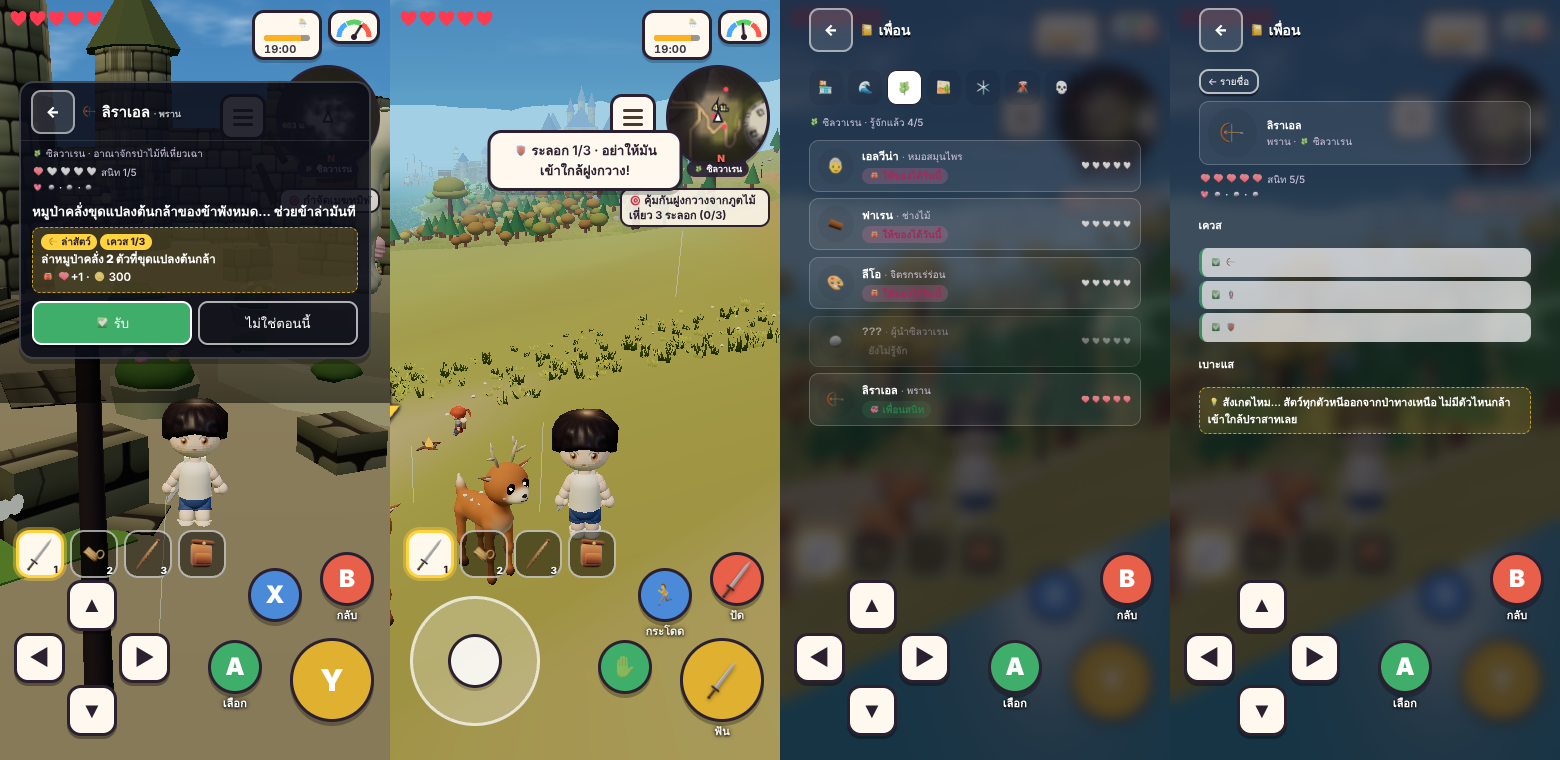
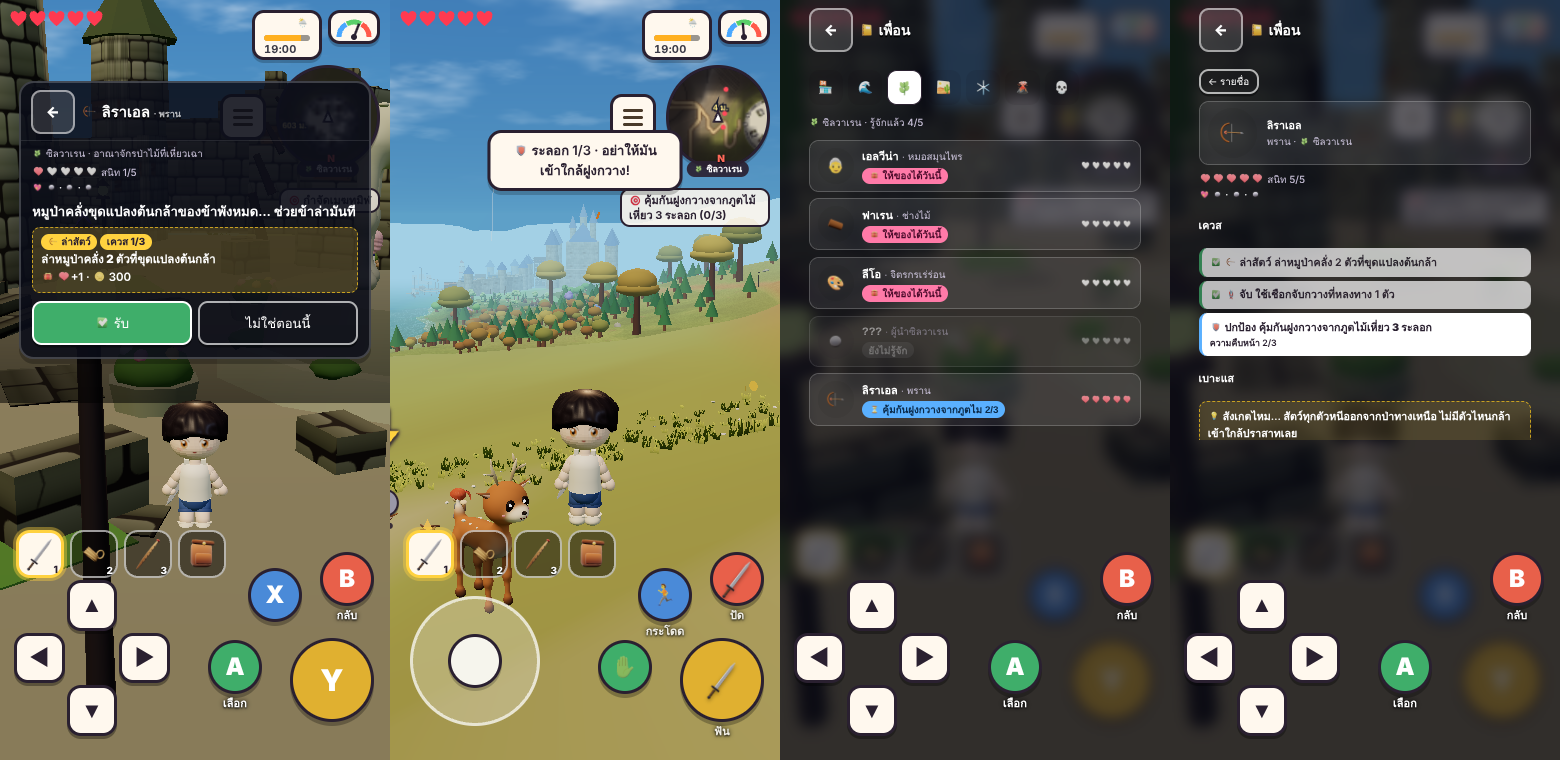
wip(newgame): v5.18 friends book contrast, opens on harbour outside kingdoms, refugees keep inn clue; test fixes
Claude-Session: https://claude.ai/code/session_01GPWeNez232vT9ersFNk7wt

diff --git a/newgame/src/main.js b/newgame/src/main.js
@@ -4726,7 +4726,7 @@ function wanderOffer(w) { const day = S.dayN || 0, X = D.WANDER_SHOP, h = idHash
 function wanderShop(w) { const o = wanderOffer(w), day = S.dayN || 0, got = (S.wbuy || {})[w.id] === day; if (!o) return; sheet(`🛍 ของจาก${w.name}`, (b, redraw, close) => { b.innerHTML = `<div class="card" style="text-align:center"><div style="font-size:38px">${o.ic}</div><b>${o.name}</b><p class="mut">${got ? 'วันนี้ซื้อไปแล้ว · พรุ่งนี้ค่อยมาดูของใหม่' : 'ของพิเศษวันละชิ้น · พรุ่งนี้จะเปลี่ยนเป็นของอื่น'}</p></div><button class="btn wide ${got || S.coin < o.price ? '' : 'go'}" id="wB" ${got ? 'disabled' : ''}>${got ? '✅ ซื้อแล้ว' : `🪙 ${fmt(o.price)} · ซื้อ`}</button>`;
   const x = b.querySelector('#wB'); if (x && !got) x.onclick = () => { if (S.coin < o.price) { hint('🪙 เงินไม่พอ', 1000); return } S.coin -= o.price; (S.wbuy = S.wbuy || {})[w.id] = day; const msg = o.give(); sfx('coin'); save(); hud(); toast(`🛍 ได้ ${msg}`, 2200); close() } }) }
 function talkNpc(key, heard) { const N = KNPC[key]; if (!N) return; if (!heard && !isNight() && !outlaw()) { const kind = Object.keys(D.ANIMAL_HINT).find(a => D.ANIMAL_HINT[a].npc === N.n.id && !animalCaught(a)), H = kind && D.ANIMAL_HINT[kind], ws = kind && animalSpot(kind); if (ws) { const o = kind === 'whale' ? HB : N.A.root.position, dx = ws.x - o.x, dz = ws.z - o.z, dir = Math.abs(dx) > Math.abs(dz) ? (dx > 0 ? 'ตะวันออก' : 'ตะวันตก') : (dz > 0 ? 'ใต้' : 'เหนือ'), m = Math.round(Math.hypot(dx, dz) / 10) * 10;
-    talk([[`${N.n.icon} ${N.n.name}`, H.say.replace('{dir}', dir).replace('{m}', m)], [`${N.n.icon} ${N.n.name}`, H.when + ' · 📍 ข้าวาดไว้บนแผนที่ให้แล้ว']], () => talkNpc(key, 1)); return } }   /* v5.10–11 🐾 the locals know where the animals live (until you catch one) */ if (outlaw()) { sfx('knock'); toast('🚪 ชาวบ้านปิดประตูเงียบ… “คนร้ายลักพาตัวพระราชา! อย่าเข้ามานะ!”', 2400); return } if (PL) PL.waveT = performance.now() + 1300;   /* v3.49 👋 a wave hello */ if (isNight()) { sfx('knock'); toast(`💤 ${N.n.icon} ${N.n.name} หลับอยู่ในบ้าน<br><small>กลับมาคุยตอนเช้านะ (${Math.floor(D.DAY.dawn / 60)}:00 น.)</small>`, 2200); return }   /* v3.42 */ if (carryN()) { const st0 = npcState(N.k, N.n); if (st0 === '…' || st0 === '❓') carryBack(true); else { giftNpc(N); return } }   /* v4.90 🎁 holding something = a gift · or, with a quest of theirs on, it goes back to the bag and counts for the quest */   /* v4.90 🎁 holding something = a gift */ if (N.n.story && storyTalk(N)) return; if (refOf(N.k, N.n)) { refTalk(N); return } const { k, n } = N, K = KINGDOMS[k], ids = n.lead && !(S.restored || {})[k] ? KQ[k].restore : (n.q || []);   /* v4.24 the leader has quests of her own once the kingdom is restored */ let say = null;
+    talk([[`${N.n.icon} ${N.n.name}`, H.say.replace('{dir}', dir).replace('{m}', m)], [`${N.n.icon} ${N.n.name}`, H.when + ' · 📍 ข้าวาดไว้บนแผนที่ให้แล้ว']], () => talkNpc(key, 1)); return } }   /* v5.10–11 🐾 the locals know where the animals live (until you catch one) */ if (outlaw()) { sfx('knock'); toast('🚪 ชาวบ้านปิดประตูเงียบ… “คนร้ายลักพาตัวพระราชา! อย่าเข้ามานะ!”', 2400); return } if (PL) PL.waveT = performance.now() + 1300;   /* v3.49 👋 a wave hello */ if (isNight()) { sfx('knock'); toast(`💤 ${N.n.icon} ${N.n.name} หลับอยู่ในบ้าน<br><small>กลับมาคุยตอนเช้านะ (${Math.floor(D.DAY.dawn / 60)}:00 น.)</small>`, 2200); return }   /* v3.42 */ if (carryN()) { const st0 = npcState(N.k, N.n); if (st0 === '…' || st0 === '❓') carryBack(true); else { giftNpc(N); return } }   /* v4.90 🎁 holding something = a gift · or, with a quest of theirs on, it goes back to the bag and counts for the quest */   /* v4.90 🎁 holding something = a gift */ if (N.n.story) { const s9 = storyNow(N.k, N.n), busy = (s9.qs && s9.qs.st === 'on') || (s9.Q && s9.h >= s9.need) || s9.clue || s9.ref; if ((busy || !refOf(N.k, N.n)) && storyTalk(N)) return }   /* a refugee with nothing new to say keeps the inn's castle clue */ if (refOf(N.k, N.n)) { refTalk(N); return } const { k, n } = N, K = KINGDOMS[k], ids = n.lead && !(S.restored || {})[k] ? KQ[k].restore : (n.q || []);   /* v4.24 the leader has quests of her own once the kingdom is restored */ let say = null;
   sheet(`${n.icon} ${n.name}${n.job ? ` <small class="njob">· ${n.job}</small>` : ''}`, (b, redraw, close) => { const T = KQS(), qg = qGate(k, n, ids), id = qg.id, busy = qActive(), Q = id && KQUEST[id], st = id && T[id], p = id && qProg(id), done = n.lead && (S.restored || {})[k] && !id;
     let line, ch = [['bye', '👋 ลาก่อน']];
     if (say) { line = say; say = null }
@@ -5763,7 +5763,7 @@ function frNext(k, n) { if (n.lead && D.MINIB[k] && raided(k)) return ['p-lock',
   if (n.story) { const s = storyNow(k, n); if (s.qs && s.qs.st === 'on') { const p = qProg(s.id); return p.ok ? ['p-new', `✅ ส่งเควสได้แล้ว`] : ['p-act', `⏳ ${s.Q.text.slice(0, 22)} ${p.cur}`] } if (s.Q && s.h >= s.need) return ['p-new', '📜 มีเควสใหม่']; if (s.clue || s.ref) return ['p-new', '💬 มีเรื่องจะเล่า'] }
   const F = FRS(k, n); if (F.d !== (S.dayN || 0) && frHearts(F.p) < 5) return ['p-gift', '🎁 ให้ของได้วันนี้']; return ['p-ok', frHearts(F.p) >= 5 ? '💞 เพื่อนสนิท' : '·'] }
 function openFriends() { closeSheets(); const tabs = [['harbour', '🏪', 'ร้านเมืองท่า'], ...Object.keys(KQ).filter(k => KINGDOMS[k]).map(k => [k, KINGDOMS[k].name.split(' ')[0], KINGDOMS[k].name])];
-  { const here = kingdomAt(me().x, me().z); frTab = here && here.w > .5 && KQ[here.k] && KINGDOMS[here.k] ? here.k : (tabs.find(([k]) => frPeople(k).some(({ k: kk, n }) => frNext(kk, n)[0] === 'p-new')) || tabs[0])[0] }   /* opens on the kingdom you stand in · else one with news */
+  { const here = kingdomAt(me().x, me().z); frTab = here && here.w > .5 && KQ[here.k] && KINGDOMS[here.k] ? here.k : 'harbour' }   /* opens on the kingdom you stand in · else the harbour (tabs show a dot where there is news) */
   sheet('📖 เพื่อน', (b, redraw) => {
     if (frWho) { const { k, n } = frWho, F = FRS(k, n), h = frHearts(F.p), T = KQS(), pos = k === 'harbour' ? null : npcHome(k, n, 0);
       const qs = (n.sq || []).filter((id, i) => (T[id] || {}).st || h >= STORY_HT[i]).map(id => { const Q = KQUEST[id], st = T[id] || {}, p = st.st === 'on' ? qProg(id) : null; return st.st === 'done' ? `<div class="fq done">✅ ${Q.kind2 || '📜'} ${Q.text}</div>` : st.st === 'on' ? `<div class="fq">${Q.kind2 || '📜'} <b>${Q.text}</b><br><small>${p.ok ? '✅ กลับไปส่งได้แล้ว' : 'ความคืบหน้า ' + p.cur}</small></div>` : `<div class="fq new">${Q.kind2 || '📜'} <b>${Q.text}</b><br><small>คุยกับ${n.name}เพื่อรับเควส</small></div>` }).join('');

diff --git a/newgame/tools/test/friend.js b/newgame/tools/test/friend.js
@@ -27,7 +27,7 @@ const ROOT = path.resolve(__dirname, '../../..'), PORT = 8939, OUT = process.arg
     const jq = await E(() => { const N = window.__ng, S = N.S; S.kq = S.kq || {}; const sv = N.KQ.sylvaren.npcs.find(n => n.job === 'หมอสมุนไพร'); for (const id of sv.q) if (!N.KQUEST[id].job) S.kq[id] = { st: 'done' }; const r0 = (S.restored || {}).sylvaren; const a = N.qGate('sylvaren', sv, sv.q); (S.restored = S.restored || {}).sylvaren = 1; const b2 = N.qGate('sylvaren', sv, sv.q); if (!r0) delete S.restored.sylvaren; return { a, b: b2 } }); log('job quest', JSON.stringify(jq)); if (!jq.a.job || !jq.b.id || !/^job_/.test(jq.b.id)) bad.push('job quests should open after the kingdom is free');
     /* v4.91 shopkeepers + Martha take gifts */
     const sg = await E(() => { const N = window.__ng, S = N.S; S.dayN = 20; const bi = N.D.SHOPS.findIndex(s => s.k === 'market'); S.shops = S.shops || {}; S.shops.market = 1; N.hinEnter({ shop: bi, k: 'shop_market', x: N.TW.shops[bi].x, z: N.TW.shops[bi].z }); N.carryTake('apple', 'g'); const H = N.HIN.shop; N.giftShop('market', H.who, H.owner[0], H.owner[1]); N.hinExit(); const P = N.INNP; N.placeMe(P.dx, P.dz + .5); N.useThing({ kind: 'inn' }); N.carryTake('carrot', 'g'); const ctx = N.innCtx({ x: N.HIN.g.position.x + N.HINC.keeper[0], z: N.HIN.g.position.z + N.HINC.keeper[1] + 1.3 }); ctx.go(); N.hinExit(); return { market: (S.fr['harbour:shop_market'] || {}).p, marthaCtx: ctx.k, martha: (S.fr['harbour:shop_inn'] || {}).p } }); log('shop gifts', JSON.stringify(sg)); if (!(sg.market > 0) || sg.marthaCtx !== 'gift' || sg.martha == null) bad.push('shopkeepers / Martha cannot take gifts');
-    await wait(800); await clr(); await E(() => window.__ng.openFriends()); await wait(600); const fp2 = await E(() => [...document.querySelectorAll('.ov')].map(o => o.innerText).join(' ')); if (!/เมืองท่า/.test(fp2)) bad.push('harbour folk not on the friends page'); await pg.screenshot({ path: OUT + '/f4-friends2.png' }); await clr();
+    await wait(800); await clr(); await E(() => { window.__ng.openFriends(); const t = document.querySelector('[data-ft="harbour"]'); t && t.click() }); await wait(600); const fp2 = await E(() => [...document.querySelectorAll('.ov')].map(o => o.innerText).join(' ')); if (!/เมืองท่า/.test(fp2)) bad.push('harbour folk not on the friends page'); await pg.screenshot({ path: OUT + '/f4-friends2.png' }); await clr();
     /* v4.93 bar-goers take gifts at night */
     const bg = await E(() => { const N = window.__ng, S = N.S; S.dayN = 30; S.time = 23 * 60; const bi = N.D.SHOPS.findIndex(s => s.k === 'bar'); S.shops = S.shops || {}; S.shops.bar = 1; N.hinEnter({ shop: bi, k: 'shop_bar', x: N.TW.shops[bi].x, z: N.TW.shops[bi].z }); const t = N.HIN.pat.find(t => (((S.fr || {})[t.r.k + ':' + t.r.n.id]) || {}).p !== 15); if (!t) return { none: 1 }; S.ingr.apple = 5; N.carryTake('apple', 'g'); const k = t.r.k + ':' + t.r.n.id, p0 = ((S.fr || {})[k] || {}).p || 0; N.HIN.pat = [t]; const o = N.HIN.g.position; const c = N.CTX; N.placeMe(o.x + t.x, o.z + t.z + .6); return { k, p0, key: k } }); await wait(1200);
     const bg2 = await E(k => { const N = window.__ng, c = N.CTX; const kk = c && c.k; if (c && c.go) c.go(); N.hinExit(); return { ctx: kk, p: ((N.S.fr || {})[k] || {}).p } }, bg.key); log('bar gift', JSON.stringify(bg), JSON.stringify(bg2)); if (bg.none || bg2.ctx !== 'gift' || !(bg2.p > bg.p0)) bad.push('bar-goers cannot take gifts'); await clr(); await E(() => { window.__ng.S.time = 600 });

diff --git a/newgame/tools/test/layout4.js b/newgame/tools/test/layout4.js
@@ -17,7 +17,7 @@ const ROOT = path.resolve(__dirname, '../../..'), PORT = 8915, OUT = process.arg
     await press('#qbar [data-qs="0"]', 120); let s2 = await st(); log('tap slot 1', JSON.stringify(s2)); if (!s2.cur.startsWith('w:')) errs.push('slot 1 = back to the sword');
     await press('#bY', 2600); let s3 = await st(); log('hold big', JSON.stringify(s3)); await pg.screenshot({ path: OUT + '/2-wheel.png' }); if (!/qwheel/.test(s3.ov)) errs.push('hold the big button = the item wheel');
     await E(() => { const b = [...document.querySelectorAll('[data-gw]')].find(x => x.dataset.gw === 'y:rope'); b && b.click() }); await wait(400); let s4 = await st(); log('wheel → rope', JSON.stringify(s4)); if (s4.cur !== 'y:rope' || s4.ov) errs.push('the wheel picks the rope and closes');
-    await press('#qbar [data-qs="1"]', 2600); let s5 = await st(); if (!/qwheel/.test(s5.ov)) errs.push('hold a slot = choose for it'); await E(() => { const b = [...document.querySelectorAll('[data-gw]')].find(x => x.dataset.gw === 'y:flute'); b && b.click() }); await wait(400); let s6 = await st(); log('slot 2 = flute', JSON.stringify(s6)); if (s6.slots[1] !== 'y:flute') errs.push('slot 2 now holds the flute');
+    await wait(900); await press('#qbar [data-qs="1"]', 2600); let s5 = await st(); if (!/qwheel/.test(s5.ov)) errs.push('hold a slot = choose for it'); await E(() => { const b = [...document.querySelectorAll('[data-gw]')].find(x => x.dataset.gw === 'y:flute'); b && b.click() }); await wait(400); let s6 = await st(); log('slot 2 = flute', JSON.stringify(s6)); if (s6.slots[1] !== 'y:flute') errs.push('slot 2 now holds the flute');
     /* v5.17.1 a bag full of weapons: one card per kind · a grid, not a crowded ring */
     const many = await E(() => { const N = window.__ng, ks = Object.keys(N.D.ITEMS).filter(k => N.D.ITEMS[k].slot === 'sword' && !N.D.ITEMS[k].tool).slice(0, 12); for (const k of ks) for (let i = 0; i < 3; i++) N.S.bag.push(N.newItem(k, 'B')); document.querySelectorAll('.ov').forEach(o => o.remove()); N.qwOpen(null); const cards = [...document.querySelectorAll('[data-gw]')]; return { kinds: ks.length, cards: cards.length, grid: !!document.querySelector('.qgrid'), dup: cards.length - new Set(cards.map(c => c.querySelector('small').textContent)).size, names: cards.map(c => c.querySelector('small').textContent).join('|') } });
     log('many', JSON.stringify(many)); await pg.screenshot({ path: OUT + '/4-grid.png' }); if (!many.grid || many.dup) errs.push('many weapons: a grid, one card per kind'); await E(() => document.querySelectorAll('.ov').forEach(o => o.remove()));

diff --git a/newgame/tools/test/hearts.js b/newgame/tools/test/hearts.js
@@ -34,7 +34,7 @@ const ROOT = path.resolve(__dirname, '../../..'), PORT = 8916, OUT = process.arg
     await go(); t = await talk(); await E(() => document.querySelector('[data-dc="give"]') && document.querySelector('[data-dc="give"]').click()); await wait(300);
     const fin = await E(() => ['svS_mali1', 'svS_mali2', 'svS_mali3'].map(id => (window.__ng.S.kq[id] || {}).st)); log('story', fin); if (fin.join() !== 'done,done,done') errs.push('all 3 story quests done');
     /* the friends book */
-    await wait(3500); await E(() => { document.querySelectorAll('.ov').forEach(o => o.remove()); window.__ng.openFriends() }); await wait(600); await E(() => { const b = document.querySelector('[data-ft="sylvaren"]'); b && b.click() }); await wait(400); await pg.screenshot({ path: OUT + '/book.png' });
+    await pg.waitForFunction(() => [...document.querySelectorAll('.ov')].some(o => /ของขวัญ/.test(o.innerText)), null, { timeout: 9000, polling: 200 }).catch(() => { }); await wait(500); await E(() => { document.querySelectorAll('.ov').forEach(o => o.remove()); window.__ng.openFriends() }); await wait(600); await E(() => { const b = document.querySelector('[data-ft="sylvaren"]'); b && b.click() }); await wait(400); await pg.screenshot({ path: OUT + '/book.png' });
     const bk = await E(() => ({ rows: document.querySelectorAll('[data-fw]').length, tabs: document.querySelectorAll('[data-ft]').length, txt: document.querySelector('.ov').innerText.slice(0, 200) })); log('book', JSON.stringify(bk)); if (bk.rows < 4 || bk.tabs < 6) errs.push('book: tabs + one row per person');
     await E(() => { const b = [...document.querySelectorAll('[data-fw]')].find(x => /ลิราเอล/.test(x.innerText)); b && b.click() }); await wait(500); await pg.screenshot({ path: OUT + '/page.png' }); const pg2 = await talkTxt(); log('page', pg2); if (!/ล่าหมูป่า/.test(pg2) || !/ป่าทางเหนือ/.test(pg2) || !/ฟาเรน/.test(pg2)) errs.push('page: quests · clue · referral');
   } catch (e) { errs.push('X ' + e.message) } finally { await b.close(); srv.kill() }
